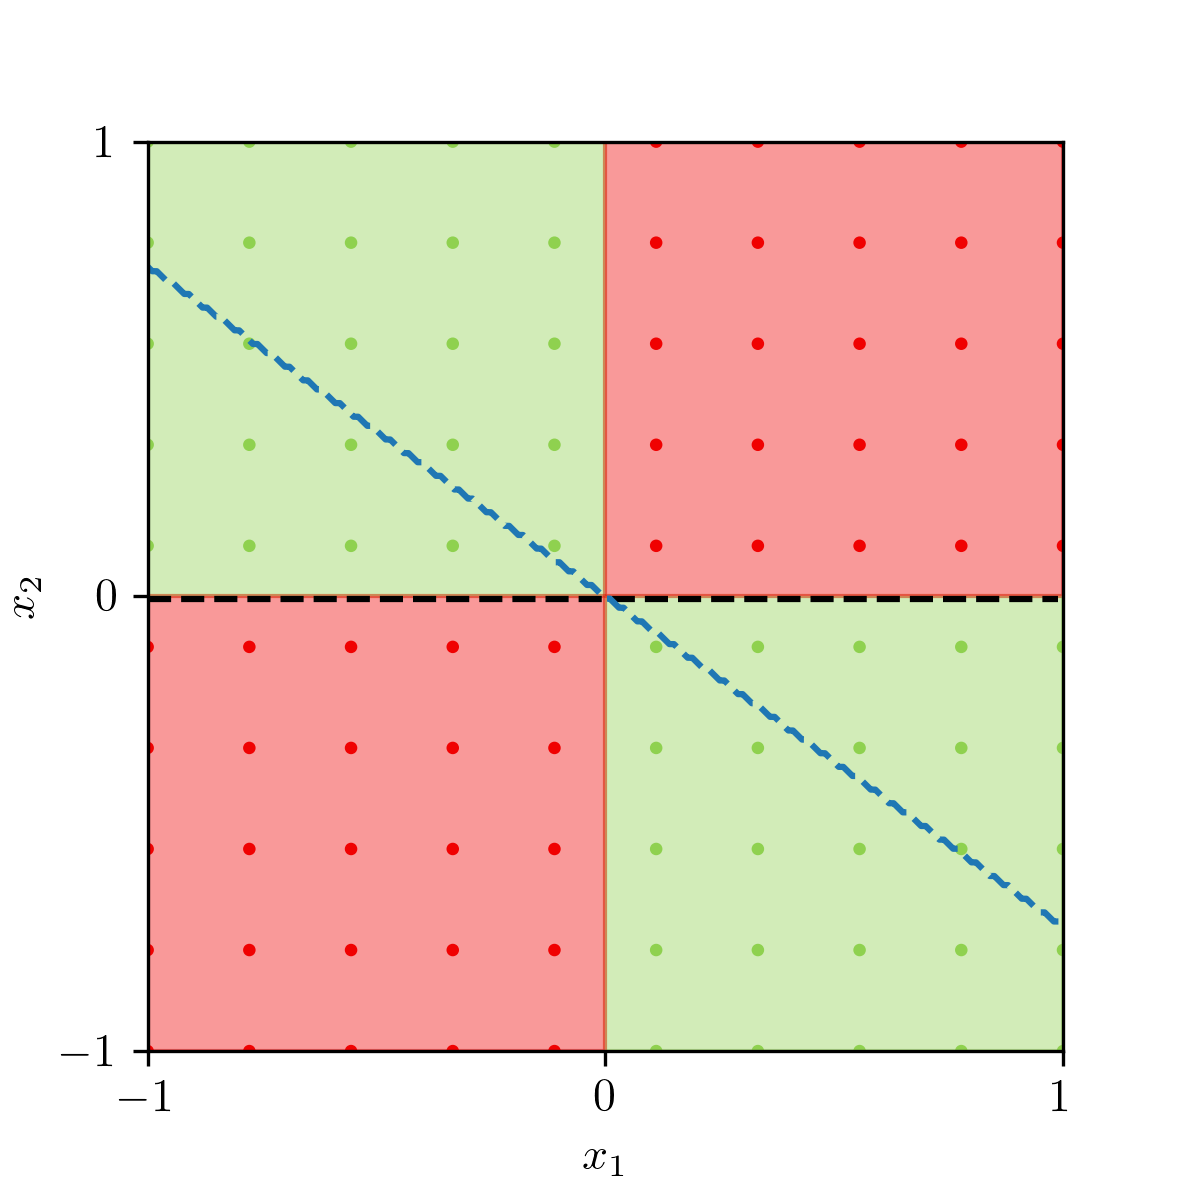
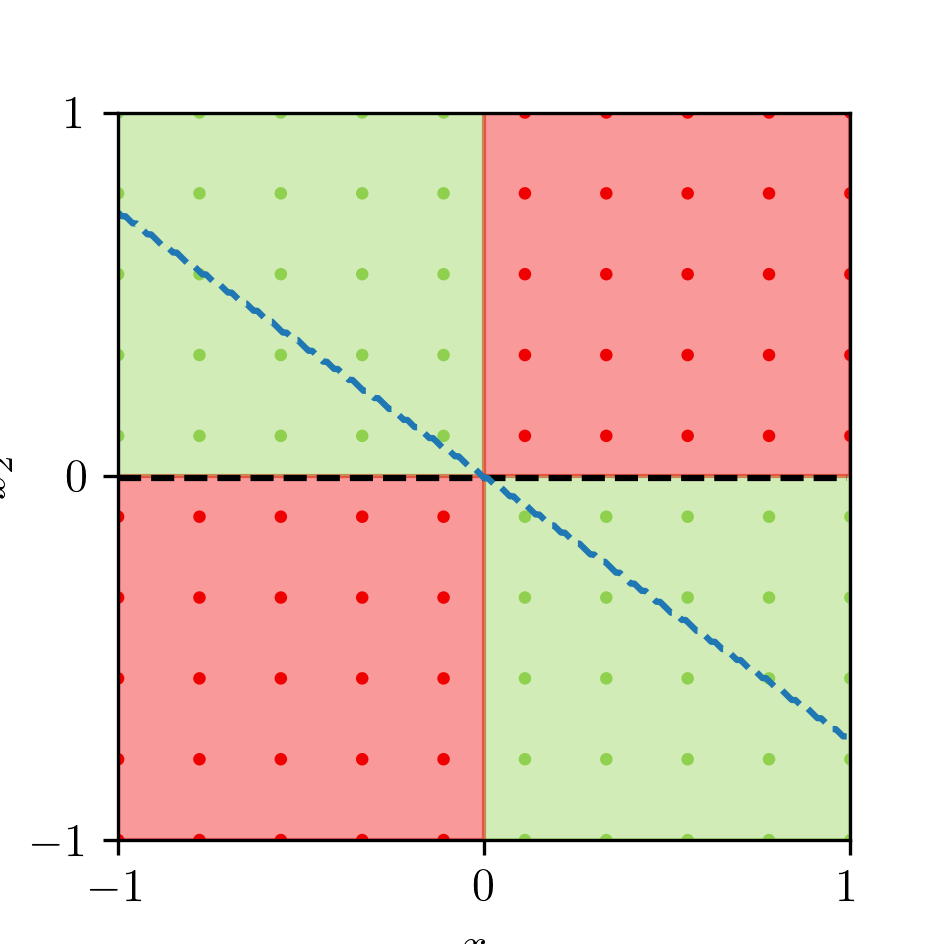
[Update XOR Plots]

diff --git a/classification/clf_2D_xor.py b/classification/clf_2D_xor.py
@@ -63,7 +63,7 @@ cm = 1/2.54
 
 def plot_only_dataset():
     X, y = make_xor_dataset(n=100, sampling="mesh")
-    fig, ax = plt.subplots(1, 1, figsize=(10*cm, 10*cm))
+    fig, ax = plt.subplots(1, 1, figsize=(8*cm, 8*cm))
     color = np.full((len(y), 3), FALSE_RED)
     color[y] = TRUE_GREEN
     ax.scatter(X[:, 0], X[:, 1], c=color, s=4)
@@ -89,7 +89,7 @@ def plot_only_dataset():
 
 def plot_with_classifier(n: int = 0):
     X, y = make_xor_dataset(n=100, sampling="mesh")
-    fig, ax = plt.subplots(1, 1, figsize=(10*cm, 10*cm))
+    fig, ax = plt.subplots(1, 1, figsize=(8*cm, 8*cm))
     color = np.full((len(y), 3), FALSE_RED)
     color[y] = TRUE_GREEN
     ax.scatter(X[:, 0], X[:, 1], c=color, s=4)
@@ -131,7 +131,7 @@ def plot_with_classifier(n: int = 0):
 def plot_pm_for_all():
     X, y = make_xor_dataset(n=100, sampling="mesh")
     idz = [16, 24, 28, 31, 54, 58, 61, 85]
-    X_custom, y_custom = X[idz], y[idz]
+    X_custom, y_custom = X, y
     h0, eps_set = example_baseline_and_epsilon_set()
 
     # X, y = make_marx_dataset(n=10)
@@ -139,7 +139,7 @@ def plot_pm_for_all():
 
     # Plot
     cm = 1/2.54  # centimeters in inches
-    fig = plt.figure(figsize=(15*cm, 10*cm))
+    fig = plt.figure(figsize=(12*cm, 8*cm))
     gs = GridSpec(1, 2, width_ratios=[2, 1])
 
     ax0 = fig.add_subplot(gs[0])
@@ -180,8 +180,6 @@ def plot_pm_for_all():
     for clf, color in zip(eps_set, ["tab:blue", "tab:orange", "tab:green", "tab:purple"]):
         Z = clf.decision_function(X_concat).reshape(X_plot.shape)
         axs[0].contour(X_plot, Y_plot, Z, colors=[color], linestyles=['--'], levels=[0])
-
-
 
 
     # Annotation
